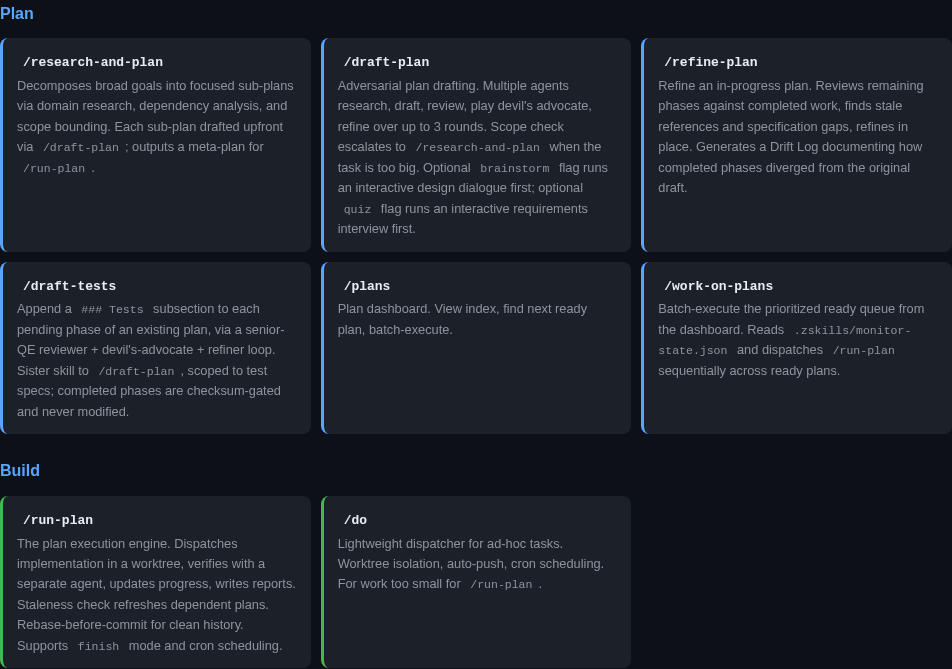
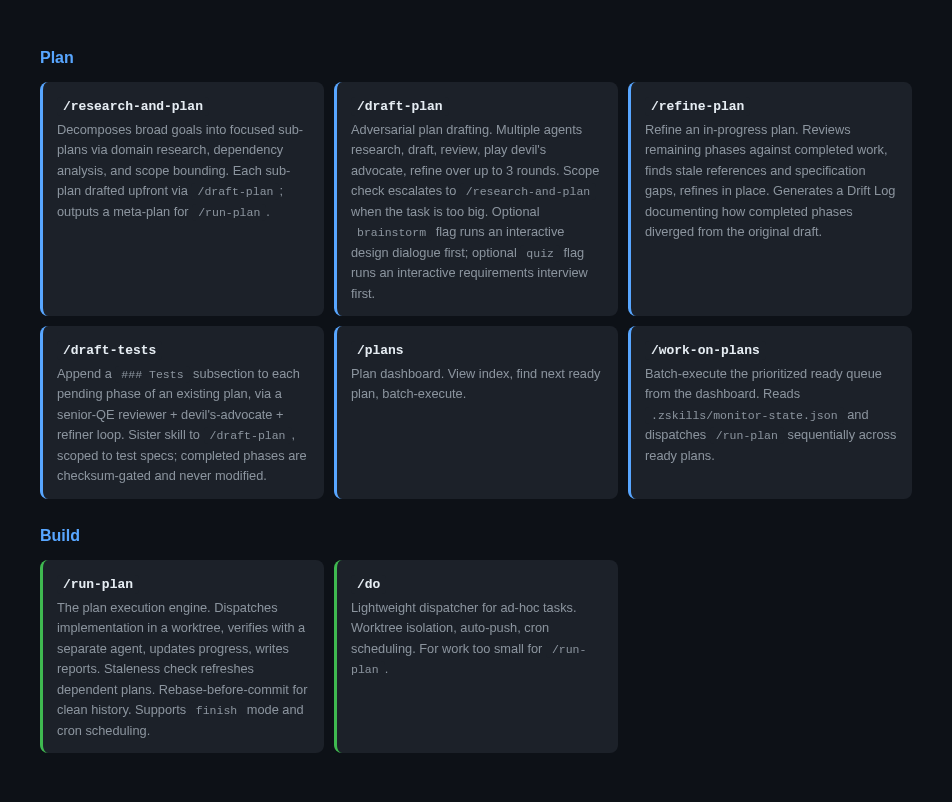
docs: pad skill screenshots; add /clear+restart & /update-zskills to install guide
- Retake the three skill-card screenshots with comfortable dark margins
  (top/bottom/left/right) instead of flush-cropped content.
- installing-zskills.md plugin section: add the post-install restart (/clear)
  and the /update-zskills confirmation step, matching the README.

diff --git a/docs/guides/installing-zskills.md b/docs/guides/installing-zskills.md
@@ -26,8 +26,21 @@ From inside a Claude Code session in your project:
 ```
 
 The first command registers the `zskills` marketplace; the second installs the
-`zs` plugin (the full distribution). Restart the session when prompted so the
-plugin's hooks load.
+`zs` plugin (the full distribution).
+
+Then **restart Claude Code (or run `/clear`) to finish setup.** Plugins can't
+write to your project at install time, so the consumer-side files are written on
+the *next* session start (see below) — this first restart is required, not
+optional. Finally, run:
+
+```
+/update-zskills
+```
+
+to confirm the install and check your environment — it reports whether `git`,
+Python, and `gh` are present. `/update-zskills` is the post-install step on
+**both** install paths; until you run it, a one-line greeting on startup reminds
+you. (On the plugin install, type `/zs:update-zskills`.)
 
 > **If the install fails to clone with a git SSH error** — something like
 > `git@github.com: Permission denied (publickey)` followed by
